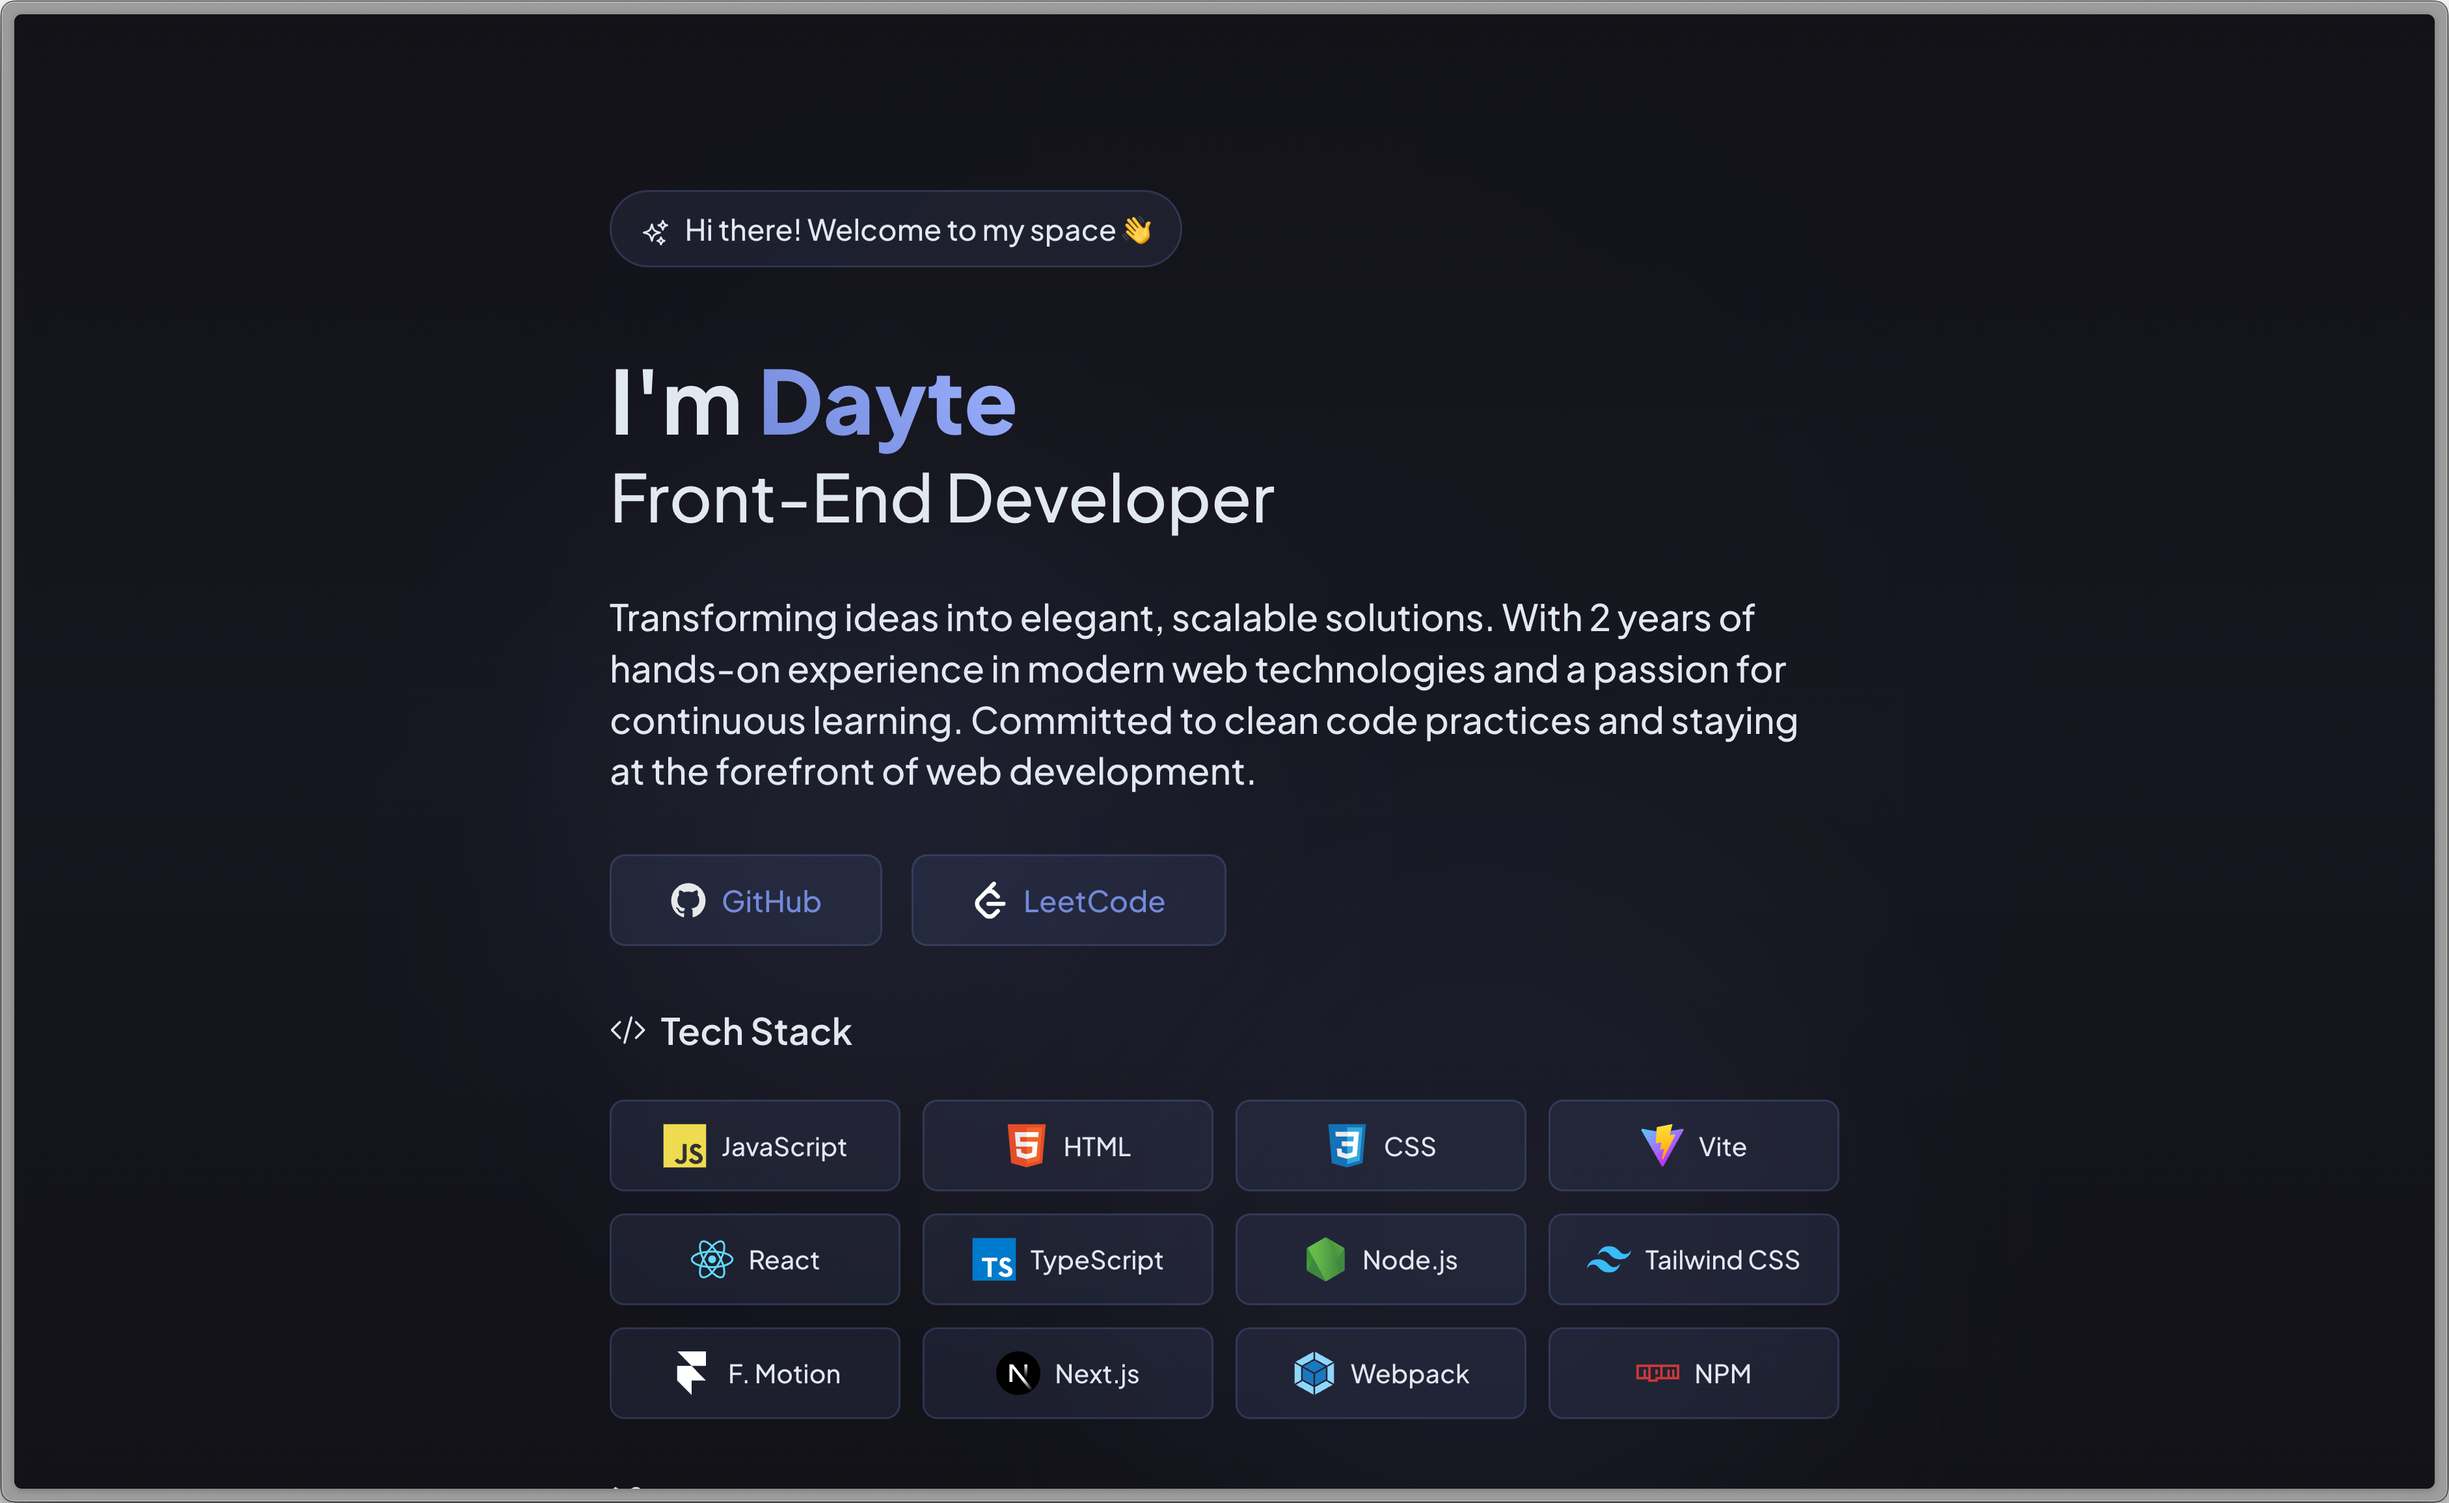
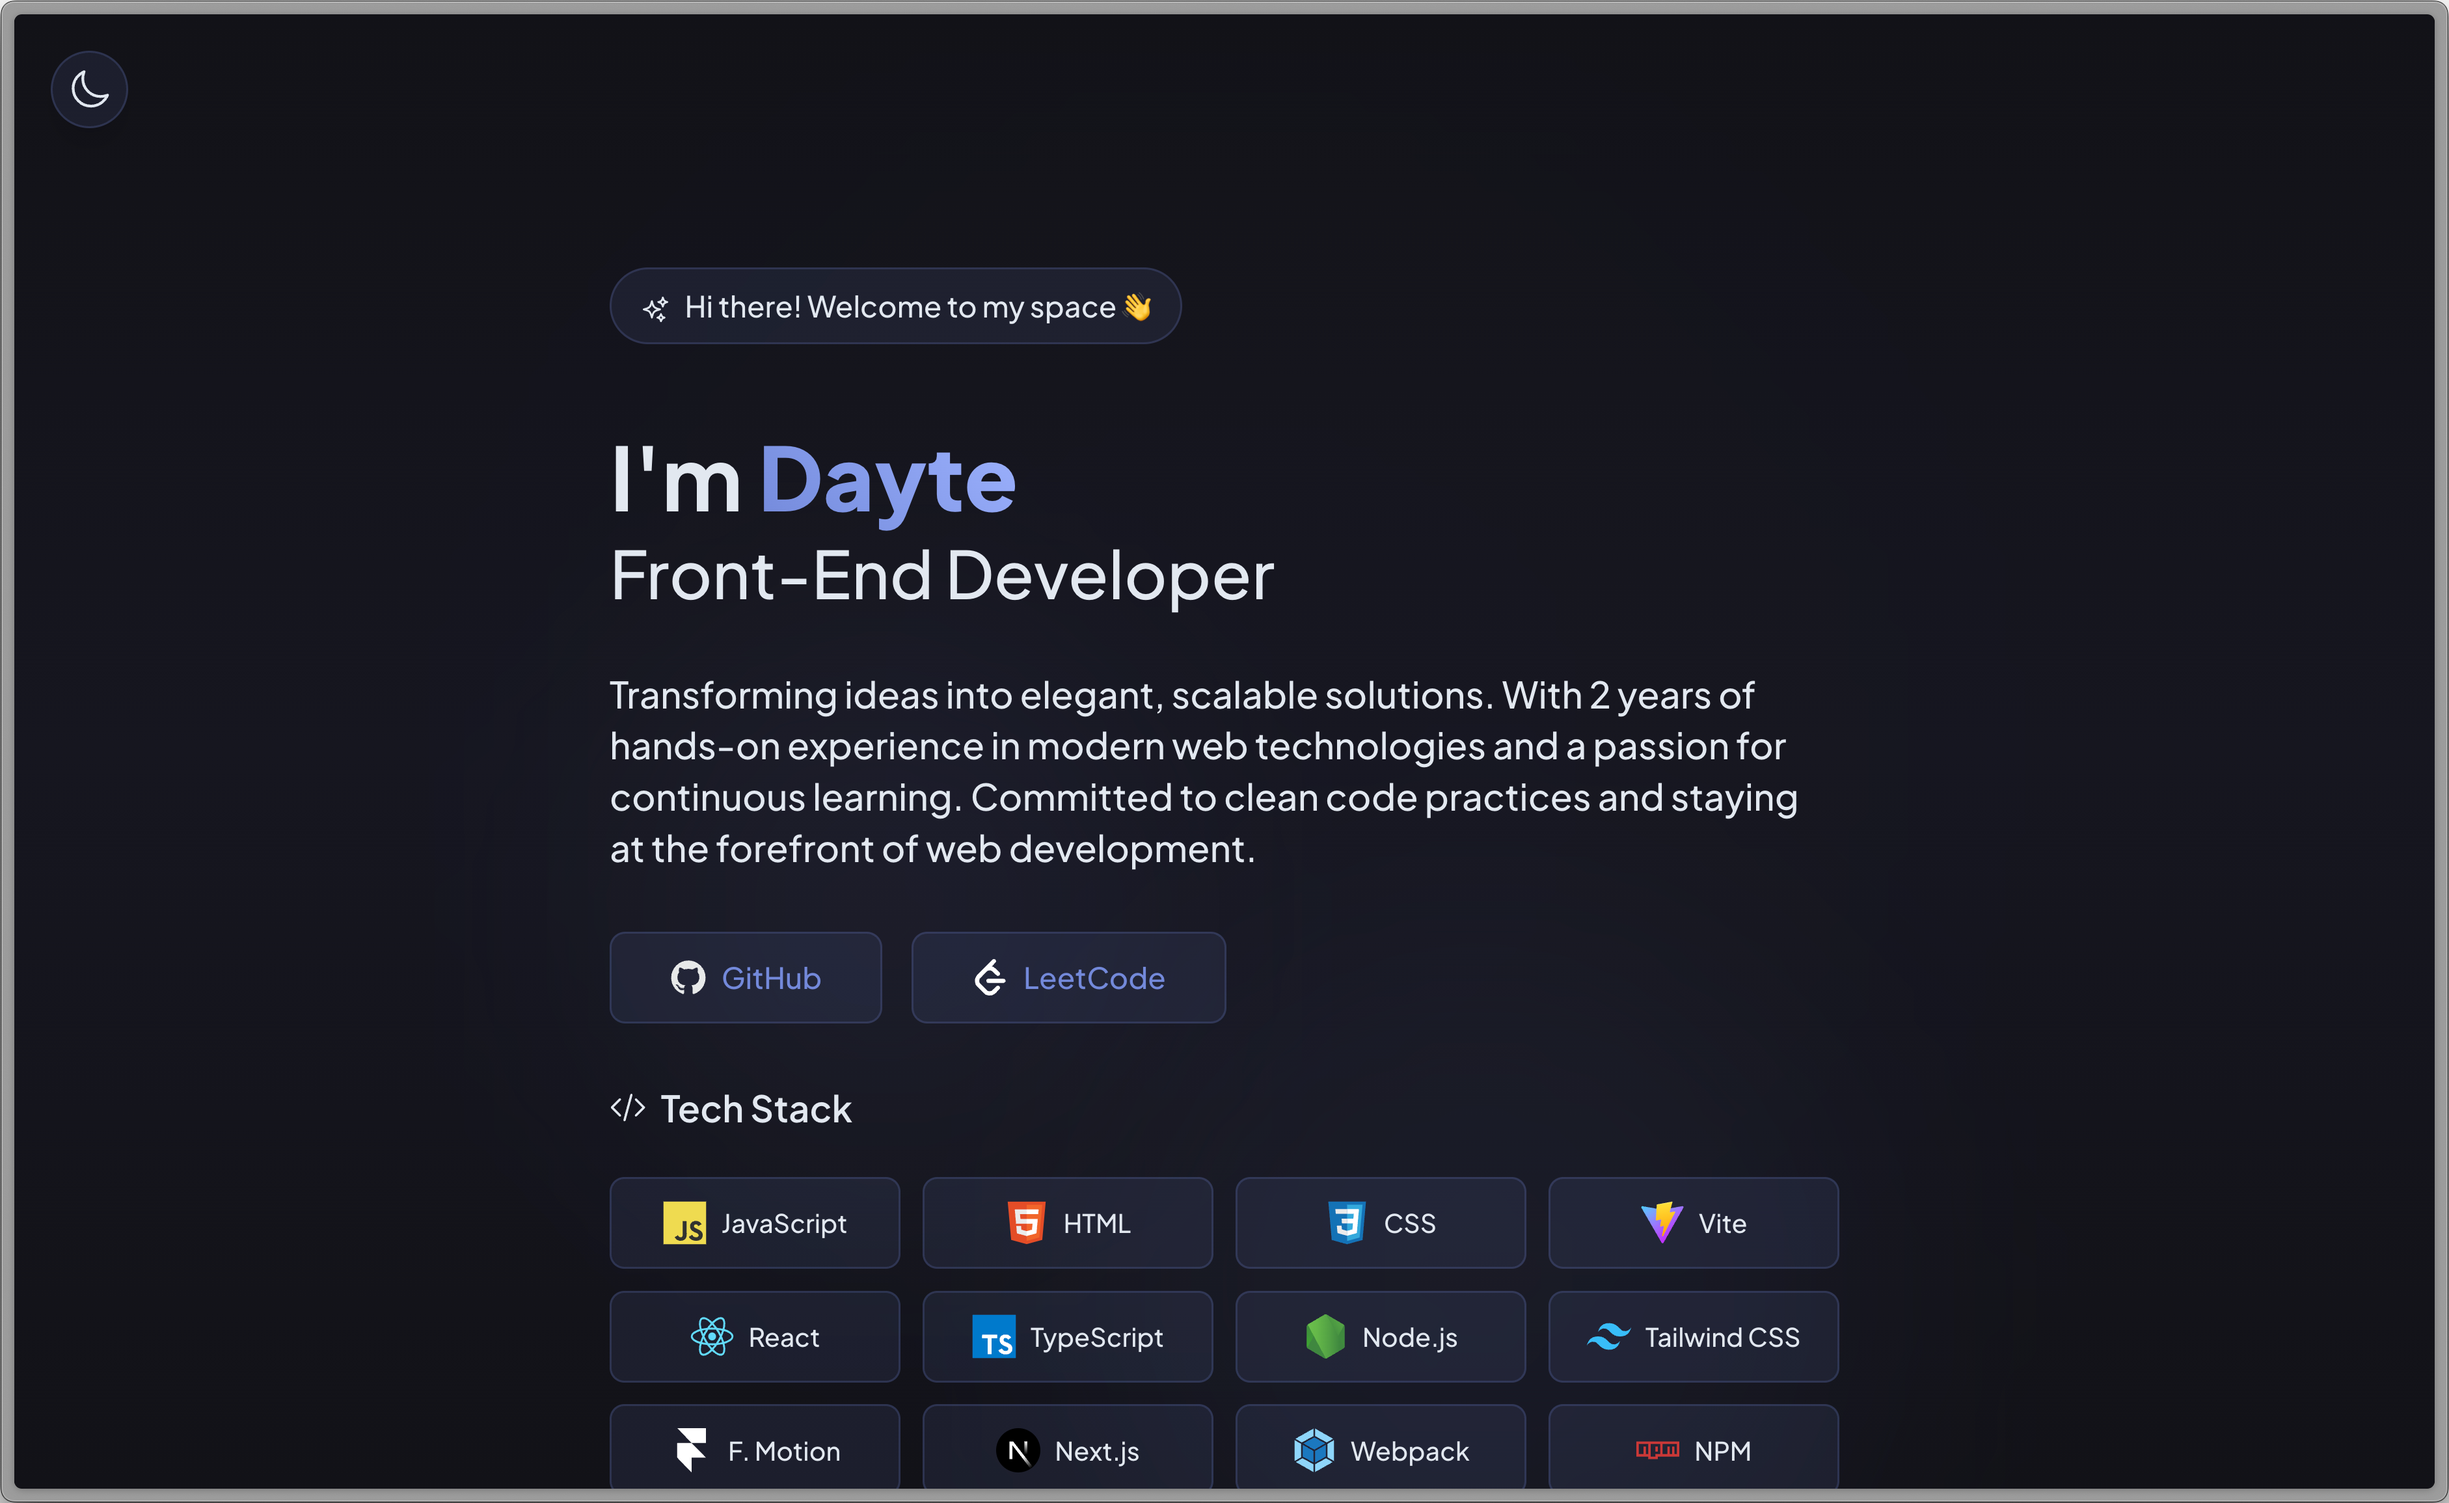
Update theme toggle functionality: replace inline theme toggle button in Navbar with a dedicated ThemeToggle component, and integrate it into the Home page for improved responsiveness. Update asset previews for dark and light themes.

Changed region(s): [[0.2487, 0.1247, 0.746, 0.9974]]

diff --git a/src/components/layout/Navbar.tsx b/src/components/layout/Navbar.tsx
@@ -1,10 +1,10 @@
 import { motion, AnimatePresence } from "framer-motion";
 import { useScrollPosition } from "../../hooks/useScrollPosition";
 import { useTheme } from "../../contexts/ThemeContext";
-import { SunIcon, MoonIcon } from "@heroicons/react/24/outline";
 import { NavItem } from "../../types";
 import { useWindowResize } from "../../hooks/useWindowResize";
 import { useScrollVisibility } from "../../hooks/useScrollVisibility";
+import ThemeToggle from "../layout/ThemeToggle";
 
 const navItems: NavItem[] = [
     { label: "Home", href: "#home" },
@@ -13,7 +13,7 @@ const navItems: NavItem[] = [
 ];
 
 const Navbar: React.FC = () => {
-    const { theme, toggleTheme } = useTheme();
+    const { theme } = useTheme();
     const { isScrolled, activeSection } = useScrollPosition();
     const { isMobile, isXl } = useWindowResize();
     const isVisible: boolean = useScrollVisibility(isXl);
@@ -61,12 +61,13 @@ const Navbar: React.FC = () => {
                                         }`}
                                         whileHover={{ scale: 1.05 }}
                                         whileTap={{ scale: 0.95 }}
-                                        onClick={(e) => {
+                                        onClick={(e: React.MouseEvent<HTMLAnchorElement>) => {
                                             e.preventDefault();
-                                            const element = document.querySelector(item.href);
+                                            const element: HTMLElement | null = document.querySelector(item.href);
                                             if (element) {
-                                                const elementPosition = element.getBoundingClientRect().top;
-                                                const offsetPosition = elementPosition + window.pageYOffset - 100;
+                                                const elementPosition: number = element.getBoundingClientRect().top;
+                                                const offsetPosition: number =
+                                                    elementPosition + window.pageYOffset - 100;
 
                                                 window.scrollTo({
                                                     top: offsetPosition,
@@ -80,42 +81,7 @@ const Navbar: React.FC = () => {
                                 ))}
                             </motion.div>
 
-                            <motion.button
-                                className="glass-pill p-2 relative"
-                                onClick={toggleTheme}
-                                whileHover={{ scale: 1.05 }}
-                                whileTap={{ scale: 0.95 }}
-                            >
-                                <motion.div
-                                    className="relative w-6 h-6"
-                                    initial={false}
-                                    animate={{
-                                        rotate: theme === "dark" ? 0 : 180,
-                                    }}
-                                    transition={{ duration: 0.5, ease: "easeInOut" }}
-                                >
-                                    <motion.div
-                                        className="absolute inset-0"
-                                        initial={false}
-                                        animate={{
-                                            opacity: theme === "dark" ? 1 : 0,
-                                        }}
-                                        transition={{ duration: 0.25 }}
-                                    >
-                                        <MoonIcon className={`w-6 h-6 ${theme === "light" ? "invert" : ""}`} />
-                                    </motion.div>
-                                    <motion.div
-                                        className="absolute inset-0"
-                                        initial={false}
-                                        animate={{
-                                            opacity: theme === "dark" ? 0 : 1,
-                                        }}
-                                        transition={{ duration: 0.25 }}
-                                    >
-                                        <SunIcon className={`w-6 h-6 ${theme === "dark" ? "invert" : ""}`} />
-                                    </motion.div>
-                                </motion.div>
-                            </motion.button>
+                            <ThemeToggle />
 
                             <motion.a
                                 href="https://github.com/FrozenProductions"

diff --git a/src/pages/Home.tsx b/src/pages/Home.tsx
@@ -4,8 +4,12 @@ import Hero from "../components/home/Hero";
 import { useEffect } from "react";
 import Projects from "../components/projects/Projects";
 import Contact from "../components/home/Contact";
+import { useWindowResize } from "../hooks/useWindowResize";
+import ThemeToggle from "../components/layout/ThemeToggle";
 
 const Home: React.FC = () => {
+    const { isMobile, isXl } = useWindowResize();
+
     useEffect(() => {
         const hash: string = window.location.hash;
         if (hash) {
@@ -15,45 +19,55 @@ const Home: React.FC = () => {
     }, []);
 
     return (
-        <motion.div initial="initial" animate="animate" exit="exit" variants={pageVariants} className="overflow-hidden">
-            <div className="fixed inset-0 overflow-hidden -z-10">
-                <div className="absolute inset-0 bg-gradient-to-b from-secondary-light via-background-light to-secondary-light dark:from-dark-300 dark:via-dark-200 dark:to-dark-300">
-                    <motion.div
-                        className="absolute inset-0"
+        <div className="relative">
+            <motion.div
+                initial="initial"
+                animate="animate"
+                exit="exit"
+                variants={pageVariants}
+                className="overflow-hidden"
+            >
+                <div className="fixed inset-0 overflow-hidden -z-10">
+                    <div className="absolute inset-0 bg-gradient-to-b from-secondary-light via-background-light to-secondary-light dark:from-dark-300 dark:via-dark-200 dark:to-dark-300">
+                        <motion.div
+                            className="absolute inset-0"
+                            style={{
+                                background:
+                                    "radial-gradient(circle at 50% 50%, rgba(114,137,218,0.03), transparent 70%)",
+                                filter: "blur(40px)",
+                            }}
+                            animate={{
+                                opacity: [0.3, 0.5, 0.3],
+                            }}
+                            transition={{
+                                duration: 8,
+                                repeat: Infinity,
+                                ease: "easeInOut",
+                            }}
+                        />
+                    </div>
+                    <div
+                        className="absolute inset-0 bg-[url('/grid.svg')] bg-repeat opacity-[0.02] dark:opacity-[0.02]"
                         style={{
-                            background: "radial-gradient(circle at 50% 50%, rgba(114,137,218,0.03), transparent 70%)",
-                            filter: "blur(40px)",
-                        }}
-                        animate={{
-                            opacity: [0.3, 0.5, 0.3],
-                        }}
-                        transition={{
-                            duration: 8,
-                            repeat: Infinity,
-                            ease: "easeInOut",
+                            maskImage: "linear-gradient(to bottom, transparent, black 10%, black 90%, transparent)",
                         }}
                     />
                 </div>
-                <div
-                    className="absolute inset-0 bg-[url('/grid.svg')] bg-repeat opacity-[0.02] dark:opacity-[0.02]"
-                    style={{
-                        maskImage: "linear-gradient(to bottom, transparent, black 10%, black 90%, transparent)",
-                    }}
-                />
-            </div>
 
-            <div className="relative z-10">
-                <section id="home">
-                    <Hero />
-                </section>
-                <section id="projects">
-                    <Projects />
-                </section>
-                <section id="contact">
-                    <Contact />
-                </section>
-            </div>
-        </motion.div>
+                <div className="relative z-10">
+                    {(isMobile || !isXl) && <ThemeToggle className="fixed top-5 left-5 z-[100] shadow-lg" />}
+                    <section id="home">
+                        <Hero />
+                    </section>
+                    <section id="projects">
+                        <Projects />
+                    </section>
+                    <section id="contact">
+                        <Contact />
+                    </section>
+                </div>
+            </motion.div>
+        </div>
     );
 };
 

diff --git a/src/components/layout/ThemeToggle.tsx b/src/components/layout/ThemeToggle.tsx
@@ -1,0 +1,48 @@
+import { motion } from "framer-motion";
+import { SunIcon, MoonIcon } from "@heroicons/react/24/outline";
+import { useTheme } from "../../contexts/ThemeContext";
+
+const ThemeToggle: React.FC<{ className?: string }> = ({ className = "" }) => {
+    const { theme, toggleTheme } = useTheme();
+
+    return (
+        <motion.button
+            className={`glass-pill p-2 relative ${className}`}
+            onClick={toggleTheme}
+            whileHover={{ scale: 1.05 }}
+            whileTap={{ scale: 0.95 }}
+        >
+            <motion.div
+                className="relative w-6 h-6"
+                initial={false}
+                animate={{
+                    rotate: theme === "dark" ? 0 : 180,
+                }}
+                transition={{ duration: 0.5, ease: "easeInOut" }}
+            >
+                <motion.div
+                    className="absolute inset-0"
+                    initial={false}
+                    animate={{
+                        opacity: theme === "dark" ? 1 : 0,
+                    }}
+                    transition={{ duration: 0.25 }}
+                >
+                    <MoonIcon className={`w-6 h-6 ${theme === "light" ? "invert" : ""}`} />
+                </motion.div>
+                <motion.div
+                    className="absolute inset-0"
+                    initial={false}
+                    animate={{
+                        opacity: theme === "dark" ? 0 : 1,
+                    }}
+                    transition={{ duration: 0.25 }}
+                >
+                    <SunIcon className={`w-6 h-6 ${theme === "dark" ? "invert" : ""}`} />
+                </motion.div>
+            </motion.div>
+        </motion.button>
+    );
+};
+
+export default ThemeToggle;
